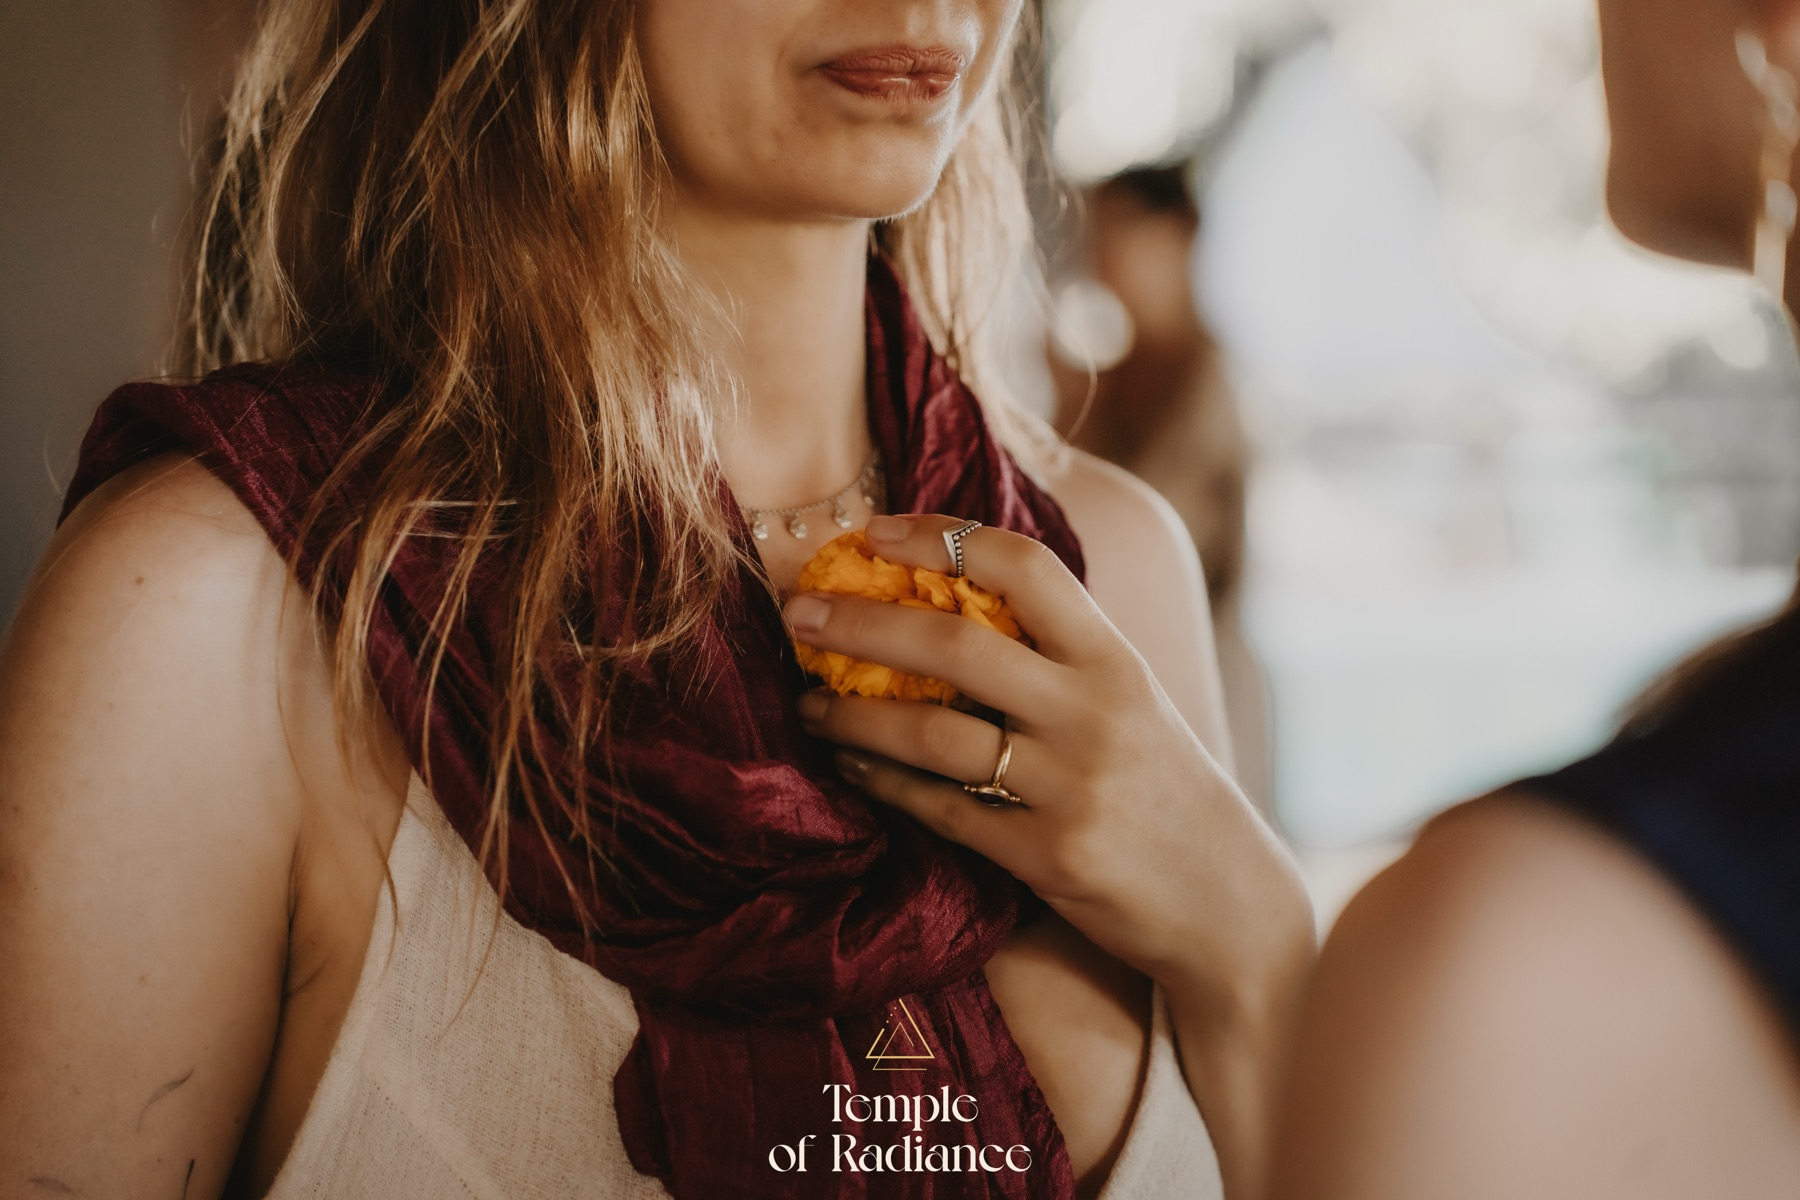
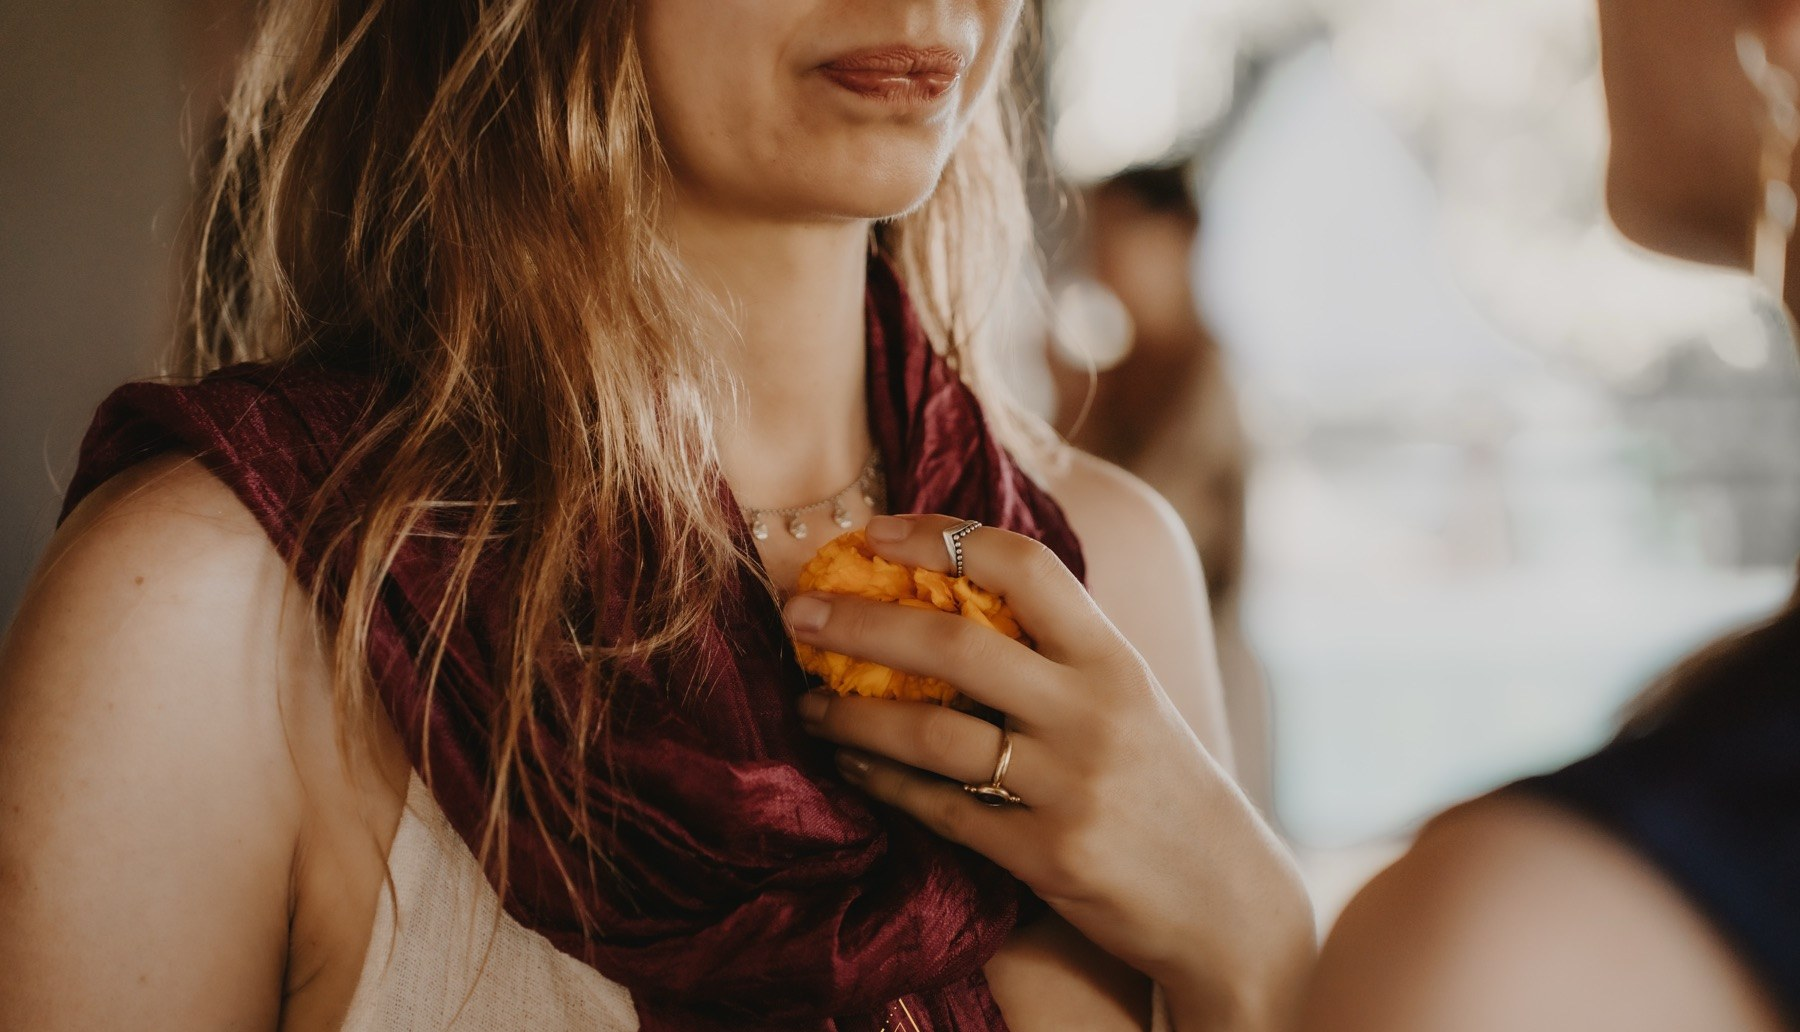
Swap in community photography and crop third-party watermarks
- Gallery slots two and six now carry the tribe resting together and cacao being
  served at a community gathering
- Cropped the Temple of Radiance watermark off two gallery images at file level,
  which also removes the CSS zoom that was working around it

diff --git a/offerings/living-temple.html b/offerings/living-temple.html
@@ -347,7 +347,7 @@
         data-title="The room, between the nights"
         data-tagline="A Glimpse Inside"
         data-grid-class="gallery-2"
-        data-images='<div class="gallery-item"><img src="../assets/img/community/mk-d6-72.jpg" alt="Two people in a connection practice at a Medicine Within temple, Amsterdam" loading="lazy"></div><div class="gallery-item"><img src="../assets/img/community/sys-3874.jpg" alt="Roses and candles on the altar at a Medicine Within temple night" loading="lazy"></div><div class="gallery-item"><img src="../assets/img/community/mk-d2-127.jpg" alt="Two friends laughing in a partner practice at a Medicine Within workshop" loading="lazy" style="object-fit: cover; object-position: 42% 34%; transform: scale(1.28);"></div><div class="gallery-item"><img src="../assets/img/community/mk-d2-91.jpg" alt="Bodywork at a Medicine Within temple, hands on a back" loading="lazy"></div><div class="gallery-item"><img src="../assets/img/community/mk-d1-18.jpg" alt="A marigold held to the heart at a Medicine Within ceremony" loading="lazy"></div><div class="gallery-item"><img src="../assets/img/community/mk-d3-97.jpg" alt="A blindfolded partner practice at a Medicine Within temple" loading="lazy"></div>'
+        data-images='<div class="gallery-item"><img src="../assets/img/community/mk-d6-72.jpg" alt="Two people in a connection practice at a Medicine Within temple, Amsterdam" loading="lazy"></div><div class="gallery-item"><img src="../assets/img/community/tribe-couch.jpg" alt="Three members resting together after a Medicine Within gathering in Amsterdam" loading="lazy"></div><div class="gallery-item"><img src="../assets/img/community/mk-d2-127.jpg" alt="Two friends laughing in a partner practice at a Medicine Within workshop" loading="lazy"></div><div class="gallery-item"><img src="../assets/img/community/mk-d2-91.jpg" alt="Bodywork at a Medicine Within temple, hands on a back" loading="lazy"></div><div class="gallery-item"><img src="../assets/img/community/mk-d1-18.jpg" alt="A marigold held to the heart at a Medicine Within ceremony" loading="lazy"></div><div class="gallery-item"><img src="../assets/img/community/cacao-round.jpg" alt="Cacao being served at a Medicine Within community gathering in Amsterdam" loading="lazy"></div>'
         data-section-class="section-dark mw-gallery--flush"
     ></div>
 
